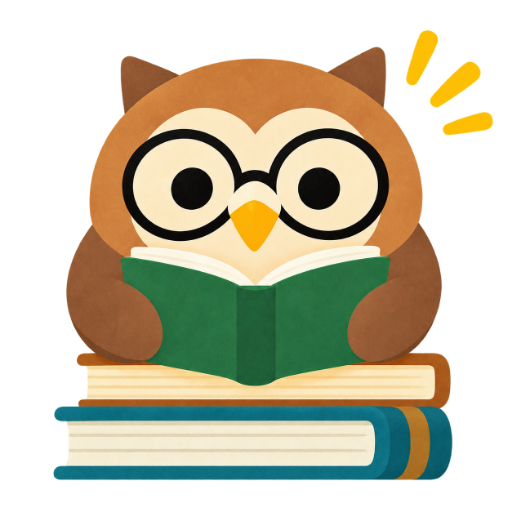
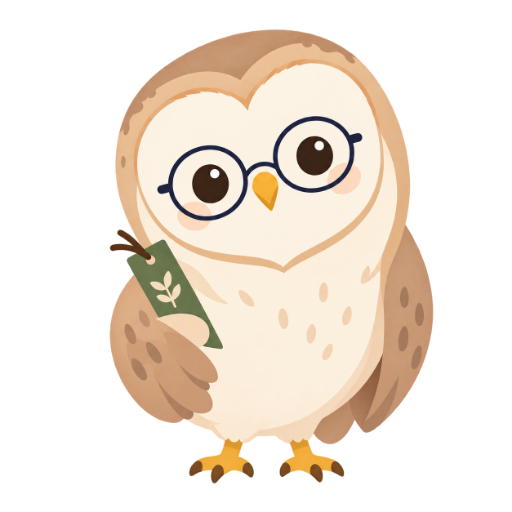
Update Booklow mascot to the new owl librarian design

diff --git a/app/sw.js b/app/sw.js
@@ -1,6 +1,6 @@
 import { receiveShare } from './share-target.js';
 const PREFIX = `bookshelf-shell-${self.registration.scope}-`;
-const CACHE = `${PREFIX}v25`;
+const CACHE = `${PREFIX}v26`;
 const ASSETS = ['./', './index.html', './style.css', './main.js', './share-inbox.js', './share-target.js', './library.js', './series.js', './review-prompt.js', './storage.js', './manifest.webmanifest', './icons/favicon-32.png', './icons/apple-touch-icon.png', './icons/icon-192.png', './icons/icon-512.png', './icons/icon-maskable-512.png', './images/bookrow.png', './images/bookrow-welcome.png', './images/bookrow-empty.png'];
 const urls = new Set(ASSETS.map(path => new URL(path, self.registration.scope).href));
 self.addEventListener('install', event => { event.waitUntil(caches.open(CACHE).then(cache => cache.addAll(ASSETS))); });

diff --git a/docs/character-assets.md b/docs/character-assets.md
@@ -1,8 +1,8 @@
 # ブックロウの画像素材
 
-キャラクターの基本仕様は[ブックロウの設定](mascot.md)を参照してください。
+基本仕様は[ブックロウの設定](mascot.md)を参照してください。
 
-提供された「BookShelf UIとブックロウのデザインガイド.png」を参照し、組み込みのimagegenで背景透過の画像を作成しました。Web用に512 × 512pxへ縮小しています。UIの文字は画像に含めずHTMLで表示します。
+ユーザー提供の「眼鏡をかけた本好きフクロウ司書.png」を基準に、組み込みのimagegenで背景と足元の影を除いた透過素材を作成しました。丸眼鏡、クリーム色の顔とお腹、淡い茶色の羽、葉柄の緑色のしおりを共通のデザインとしています。Web用は512 × 512pxです。
 
 | 保存先 | 用途 |
 | --- | --- |
@@ -10,24 +10,16 @@
 | `app/images/bookrow-welcome.png` | 蔵書未登録時 |
 | `app/images/bookrow-empty.png` | 検索結果なし |
 
-PWA用192px・512px・maskable 512px、Apple Touch Icon 180px、Favicon 32pxは、原画から次のコマンドで再生成できます。
+現在はすべての表示箇所で同じ立ち絵を使用しています。UIの文字はHTMLで表示します。
+
+PWA用192px・512px・maskable 512px、Apple Touch Icon 180px、Favicon 32pxは次のコマンドで再生成できます。
 
 ```sh
 BROWSER_PATH=/usr/bin/google-chrome node scripts/build-icons.js
 ```
 
-maskableアイコンは背景を不透明にし、キャラクター全体が中央の安全領域に収まる余白を設けています。全画像とアイコンをService Workerのキャッシュに含め、オフラインでも表示します。
+maskableアイコンは不透明な背景と安全領域内の余白を設けています。全画像とアイコンをService Workerでキャッシュし、オフラインでも表示します。画像差し替え時には`app/sw.js`のキャッシュバージョンも更新します。
 
 ## 使用したプロンプト
 
-### ヘッダー・アイコン
-
-Use case: background-extraction. Create one clean isolated production asset of the brown owl mascot reading the green book from the top left header / bottom right icon in the supplied BookShelf design guide. Preserve character identity, round black glasses, cream face, yellow beak, brown wings holding open green book, subtle hand painted flat illustration style. Single owl only centered filling 85% of a square canvas, actual transparent background. No lettering, no UI, no speech bubbles, no shadows outside character, no extra objects. Output is for website header, empty state and app icon.
-
-### 初回の空状態
-
-Use case: background-extraction. Extract and recreate as a clean isolated transparent production illustration the owl sitting on two stacked books from the lower left welcome panel of the reference BookShelf design guide. Preserve the exact brown owl character with circular black glasses, large cream face, yellow beak, wings holding a green open book; stacked cream books with brown and teal covers underneath; small yellow joy rays at upper right. Match subtle textured flat painted illustration. Single centered illustration filling 85% square image. Transparent background, no text, no UI, no panels. Keep all character and book edges intact.
-
-### 検索結果なし
-
-Use case: background-extraction. Create isolated transparent production illustration matching the middle illustration of the top right 'no search results' panel of supplied BookShelf design guide. Brown owl with black circular glasses, cream face, yellow beak, puzzled wide eyes looking over a large teal blue open book. Pale blue small cloud shape behind owl, grey outline thought bubble containing three dots above to right. Preserve exact mascot identity and textured hand-painted flat style. Single illustration centered filling 85% of square canvas. Actual transparent background outside illustration. No text, no UI, no layout panels.
+Use case: background-extraction. Input image: edit target, supplied owl librarian. Create a clean transparent cutout of this exact character for a BookShelf website mascot. Preserve the full body, gently tilted head, round dark navy glasses, big dark brown eyes with white highlights, pale cream heart-shaped face and belly, light warm tan plumage with subtle feather spots, peach cheeks, small golden beak and feet, and olive green bookmark with cream leaf motif and brown cord held in its wing. Preserve the same pose, proportions and soft painted illustration style. Remove only the white background and ground shadow. Center the entire owl on a square transparent canvas with 6% margin above and below. No text, no extra objects, no open book. Actual transparent background.

diff --git a/docs/mascot.md b/docs/mascot.md
@@ -26,22 +26,22 @@
 
 デザインコンセプトは「かわいく、やさしく、シンプル」。
 
-- **画風**：2Dフラットイラスト。立体感やリアルな質感を避ける。
+- **画風**：やわらかな手描き風の2Dイラスト。淡い色の重なりと控えめな陰影を使う。
 - **体型**：頭と胴体が一体化した、丸くふっくらしたシルエット。
 - **顔**：大きな丸眼鏡、黒目がちな目、小さな黄色いくちばし。
-- **体**：やわらかい茶色。顔とお腹は薄いベージュ。
+- **体**：淡い茶色。ハート形の顔とお腹はクリーム色。翼とお腹に羽の斑点があり、頬は淡い桃色。
 - **翼・足**：短く小さめ。威圧感を与えない。
-- **小物**：緑色の本を抱えている。
+- **小物**：葉柄の緑色のしおりを持っている。しおりには茶色のひもが付く。
 - **表情**：基本は穏やか。驚き、喜び、困惑などのバリエーションを持つ。
 
 ### 基本カラーパレット
 
 | 部位・用途 | 色 | カラーコード |
 | --- | --- | --- |
-| 体 | ブラウン | `#B87945` |
-| 顔・お腹 | ベージュ | `#F4D9A5` |
+| 体 | ライトブラウン | `#CDA17F` |
+| 顔・お腹 | ベージュ | `#FFF5E5` |
 | 眼鏡 | ダークカラー | `#29302B` |
-| 本 | グリーン | `#39785B` |
+| しおり | オリーブグリーン | `#7B8C61` |
 | くちばし | イエロー | `#E9AD35` |
 
 色コードは今後の制作に向けた仮の指定。
@@ -60,7 +60,7 @@
 
 | 状態 | 表情・ポーズ |
 | --- | --- |
-| 通常 | 本を抱えて穏やかに微笑む |
+| 通常 | しおりを持ち、首をかしげて穏やかに見つめる |
 | 検索中 | 本をめくりながら調べる |
 | 発見 | 目を輝かせて喜ぶ |
 | 見つからない | 首をかしげて困る |
@@ -78,7 +78,7 @@
 | 検索中 | 調べ物をしているポーズ |
 | 検索結果なし | 首をかしげたポーズ |
 | エラー | 困った表情でメッセージを補助 |
-| PWAアイコン | 顔・丸眼鏡・本を中心にした簡略版 |
+| PWAアイコン | 丸眼鏡・クリーム色の顔・緑色のしおりが見える全身像 |
 
 ### セリフ例
 
@@ -92,7 +92,8 @@
 
 ## 6. デザイン上のルール
 
-- グラデーション、強い影、3D表現は使わない。
+- 添付の「眼鏡をかけた本好きフクロウ司書.png」をデザインの基準とする。
+- 淡いグラデーションと控えめな陰影は使える。強い影や3D表現は使わない。
 - 輪郭と色面を中心に構成する。
 - 小さなサイズでもフクロウと認識できる。
 - 丸眼鏡を最も重要な識別要素とする。
